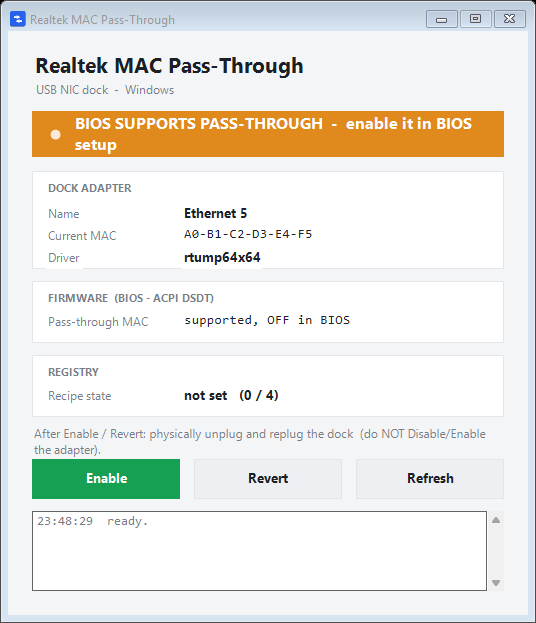
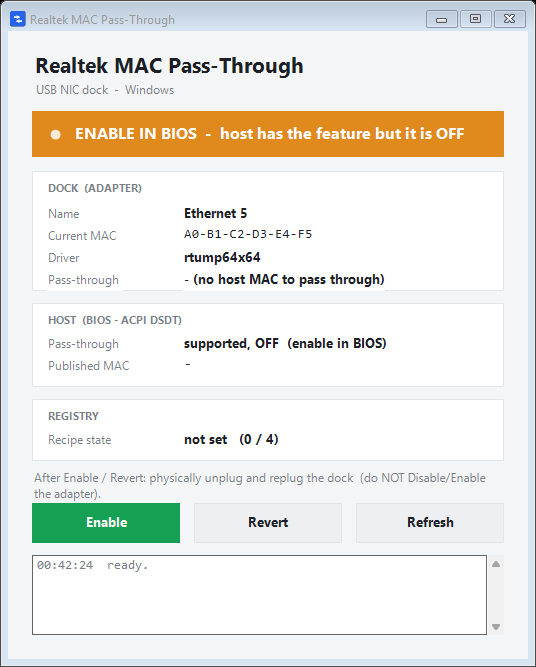
@ Two-axis status: separate Host (BIOS) from Dock (native vs recipe)
The single status pill conflated two independent things. Now the GUI shows
them apart: a Dock card line (active native / active via recipe / generic -
needs recipe) and a Host card line (supported ON / supported OFF - enable in
BIOS / not supported), with the top banner as the combined verdict naming the
bottleneck. CLI prints the same Dock axis and fixes the Expected-MAC hex
extraction. README reworked around the two axes; all tier screenshots
regenerated for the new layout.
@

diff --git a/README.md b/README.md
@@ -49,24 +49,33 @@ then verify with `getmac /v` — the Realtek dock NIC now shows the pass-through
 
 ## Status at a glance
 The tool reads this host's **live ACPI DSDT** (standard `GetSystemFirmwareTable` API — nothing hardcoded per
-machine) and tells apart the two very different "no pass-through MAC" cases: a BIOS that **has the feature but
-it is switched off** (go enable it), versus a BIOS that **has no pass-through feature at all** (e.g. many
-desktops / NUCs — nothing to enable here). It detects the feature by the known firmware plumbing: Dell's `AMAC`
-or Lenovo's `MACA` ACPI object (or an `_AUXMAC_` / `_RTXMAC_` marker).
+machine) and reports **two independent axes**, because they really are separate things:
 
-| Situation | Status shown |
-|---|---|
-| Firmware provides a MAC, recipe applied | 🟢 **PASS-THROUGH ACTIVE** |
-| Firmware provides a MAC, recipe not applied | 🔵 **READY** (Enable works) |
-| Firmware **supports** pass-through but it is **disabled** in BIOS | 🟠 **BIOS SUPPORTS — enable it in BIOS** |
-| Firmware has **no** pass-through feature at all | ⚪ **BIOS HAS NO PASS-THROUGH** (host firmware) |
-| No Realtek USB dock NIC found | ⚪ **DOCK NIC NOT FOUND** |
+- **Host (BIOS):** does the firmware have the pass-through feature, and is it on? — *supported & ON* (publishes a
+  MAC) / *supported but OFF* (enable it in BIOS setup) / *no feature at all* (e.g. many desktops & NUCs). Detected
+  by the known firmware plumbing: Dell's `AMAC` or Lenovo's `MACA` ACPI object (or an `_AUXMAC_` / `_RTXMAC_` marker).
+- **Dock (adapter):** does the dock apply pass-through **natively**, or does it need the registry **recipe**? — a
+  branded dock the driver auto-recognizes works on its own; a **generic** dock (same Realtek chip, no vendor marker)
+  is skipped by the driver and needs this tool's recipe. When pass-through is active, the tool shows which of the two
+  it is; a dormant generic dock just shows *needs recipe (Enable)*.
+
+The top banner is the **combined verdict** and names the bottleneck.
+
+| Host (BIOS) | Dock | Banner |
+|---|---|---|
+| supported, ON | active, via recipe | 🟢 **PASS-THROUGH ACTIVE** (via this tool) |
+| supported, ON | active, native | 🟢 **PASS-THROUGH ACTIVE** (native dock) |
+| supported, ON | generic, not applied | 🔵 **READY** — host OK, press Enable |
+| supported, OFF | — | 🟠 **ENABLE IN BIOS** — feature present but off |
+| no feature | — (dock is fine) | ⚪ **NO HOST PASS-THROUGH** (BIOS limitation) |
+| — | not found | ⚪ **DOCK NIC NOT FOUND** |
 
 > On a host with **no** pass-through feature, firmware can't supply a MAC, so there is nothing for this tool to
-> apply. If you still want the dock NIC to present a specific MAC on that host (Windows only, same as pass-through
-> would achieve), set it manually with the standard Windows adapter property — see **[Host without the feature](#host-without-the-feature)**.
+> apply — the dock itself is fine. If you still want the dock NIC to present a specific MAC on that host (Windows
+> only, same as pass-through would achieve), set it manually with the standard Windows adapter property — see
+> **[Host without the feature](#host-without-the-feature)**.
 
-The app in each state — native auto-recognized dock, ready-to-enable, BIOS supports-but-off, BIOS has no feature, nothing plugged:
+The app in each state — native dock (active), ready (host OK / dock needs recipe), host feature off, host has no feature, nothing plugged:
 
 | | |
 |:--:|:--:|
